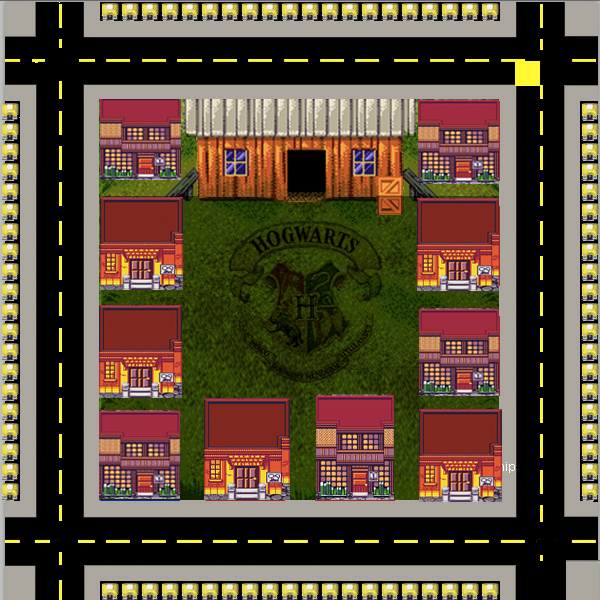
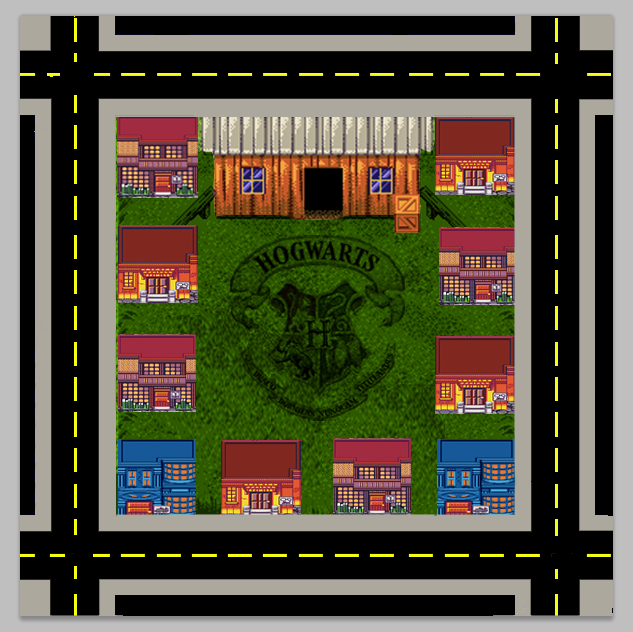
updated background

diff --git a/src/city/gui/SimCityPanel.java b/src/city/gui/SimCityPanel.java
@@ -32,7 +32,7 @@ public abstract class SimCityPanel extends JPanel implements ActionListener, Mou
 		
 		backgroundImage = null;
 		try {
-			java.net.URL imageURL = this.getClass().getClassLoader().getResource("city/gui/images/hogwartstownbg.png");
+			java.net.URL imageURL = this.getClass().getClassLoader().getResource("city/gui/images/hogwartstown.png");
 			backgroundImage = ImageIO.read(imageURL);
 		}
 		catch(IOException e) {
@@ -51,10 +51,10 @@ public abstract class SimCityPanel extends JPanel implements ActionListener, Mou
 	
 	public void drawComponents(Graphics g) {
 		g.drawImage(backgroundImage, -15, -15,null);
-		for (CityComponent c:statics) {
-			c.paint(g);
-			
-		}
+//		for (CityComponent c:statics) {
+//			c.paint(g);
+//			
+//		}
 		
 		for (CityComponent c:movings) {
 			if(c.isActive){
